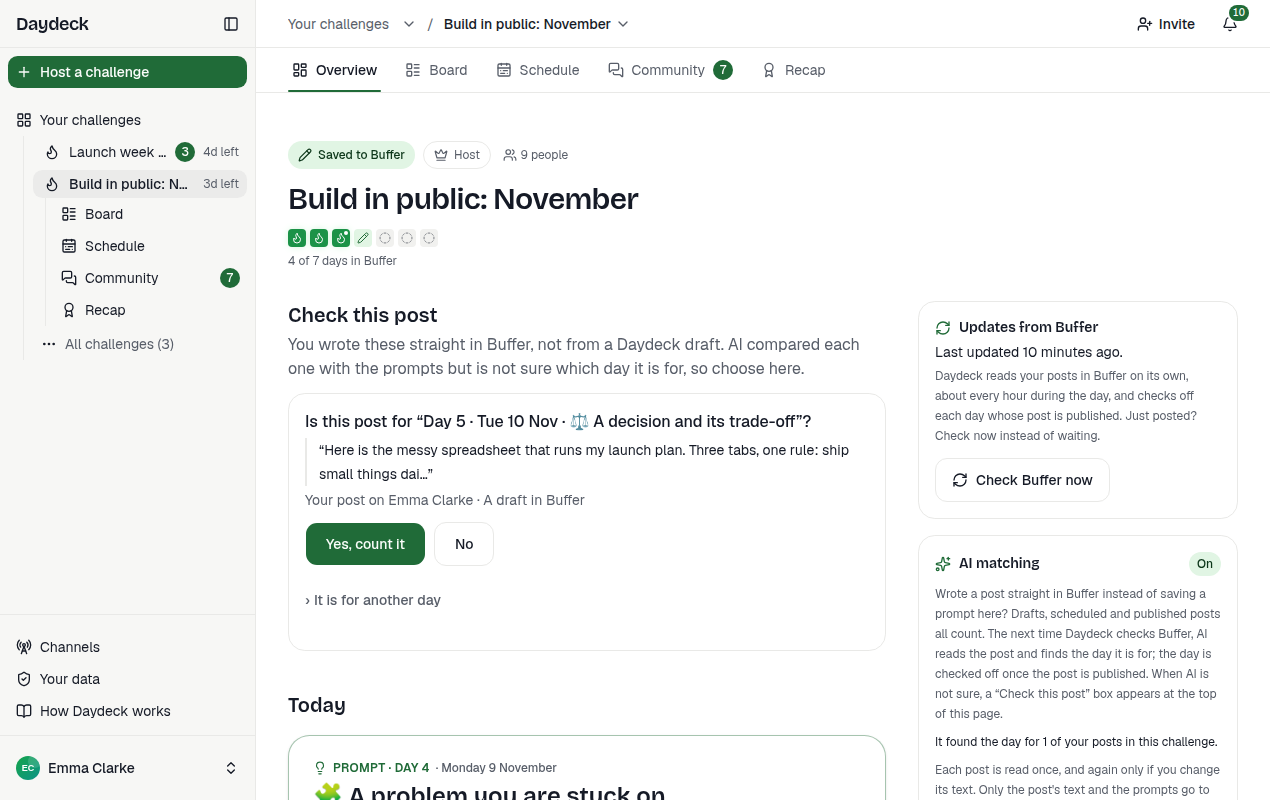
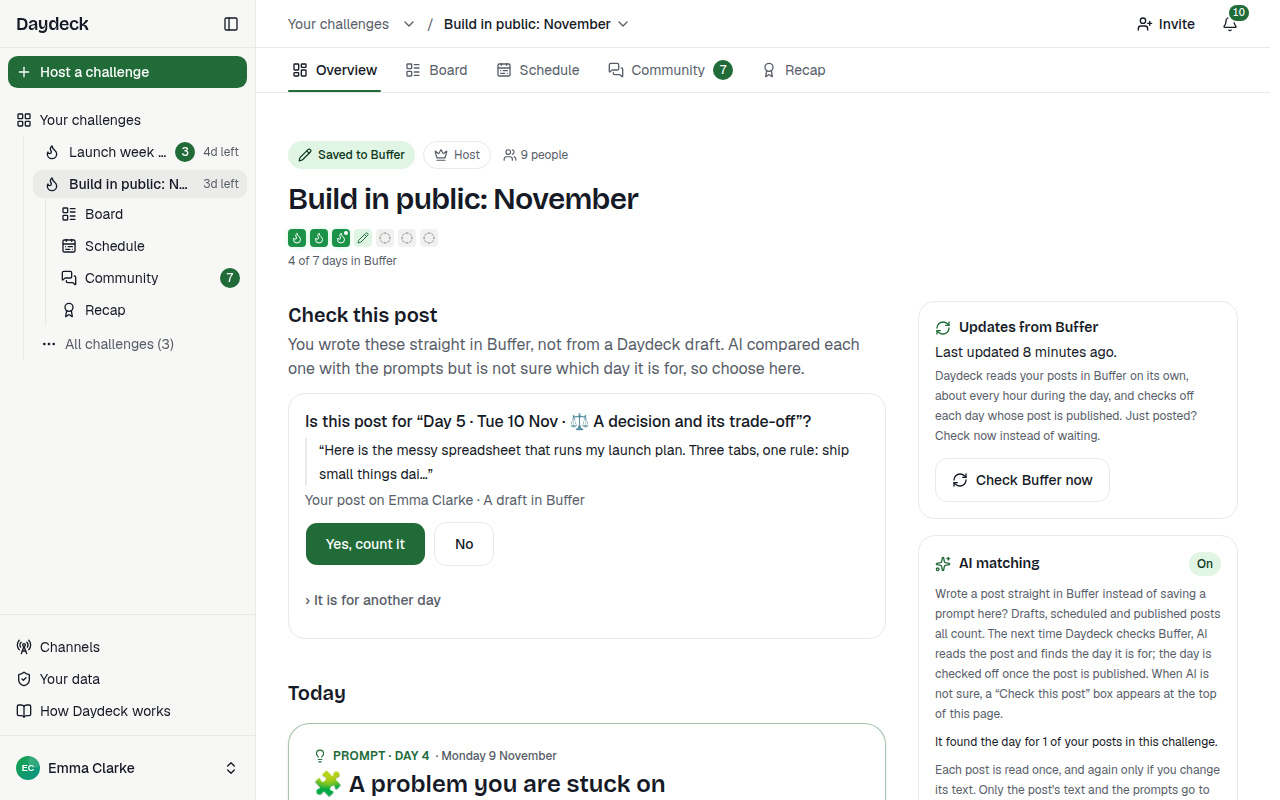
Daydeck: polish the delete dialog, checkboxes, card spacing and "just now" times

diff --git a/apps/web/features/challenges/join-form.tsx b/apps/web/features/challenges/join-form.tsx
@@ -88,27 +88,35 @@ export function JoinForm({
           <li>You can leave the challenge at any time.</li>
         </ul>
       </div>
-      <label className="flex min-h-11 cursor-pointer items-start gap-3">
-        <input
-          type="checkbox"
-          name="agreed"
-          required
-          aria-describedby={noteId}
-          className="mt-0.5 size-5 accent-primary"
-        />
-        <span>I understand what joining shares</span>
-      </label>
-      <label className="flex min-h-11 cursor-pointer items-start gap-3">
-        <input type="checkbox" name="wallOptIn" className="mt-0.5 size-5 accent-primary" />
-        <span className="flex flex-col">
-          <span>Show my name and post links on the challenge's recap page</span>
-          <span className="text-muted-foreground text-sm">
-            {listed
-              ? "Optional. This challenge is on Daydeck's homepage, so anyone can see its recap. You can change this later."
-              : "Optional. Anyone with the recap's link can see it. You can change this later."}
+      {/* The two choices as one group: same box size, and only the space a group needs. The
+          whole label is the click target, so each stays well above 24px (WCAG 2.5.8). */}
+      <div className="flex flex-col gap-4">
+        <label className="flex cursor-pointer items-start gap-3 leading-6">
+          <input
+            type="checkbox"
+            name="agreed"
+            required
+            aria-describedby={noteId}
+            className="mt-0.5 size-5 shrink-0 accent-primary"
+          />
+          <span>I understand what joining shares</span>
+        </label>
+        <label className="flex cursor-pointer items-start gap-3 leading-6">
+          <input
+            type="checkbox"
+            name="wallOptIn"
+            className="mt-0.5 size-5 shrink-0 accent-primary"
+          />
+          <span className="flex flex-col">
+            <span>Show my name and post links on the challenge's recap page</span>
+            <span className="text-muted-foreground text-sm leading-5">
+              {listed
+                ? "Optional. This challenge is on Daydeck's homepage, so anyone can see its recap. You can change this later."
+                : "Optional. Anyone with the recap's link can see it. You can change this later."}
+            </span>
           </span>
-        </span>
-      </label>
+        </label>
+      </div>
 
       <div className="flex flex-col gap-2">
         <Button type="submit" className="h-11 w-full px-5 sm:w-fit" disabled={pending}>

diff --git a/apps/web/features/community/messages.tsx b/apps/web/features/community/messages.tsx
@@ -918,9 +918,23 @@ export function ChannelView({
         <AlertDialogContent>
           <AlertDialogHeader>
             <AlertDialogTitle>Delete this message?</AlertDialogTitle>
-            <AlertDialogDescription render={<div />}>
-              <p className="line-clamp-3 wrap-anywhere">{deleting?.body}</p>
-              <p className="mt-2">It goes away for everyone. This cannot be undone.</p>
+            <AlertDialogDescription render={<div />} className="flex flex-col gap-3">
+              {/* The message itself, set apart from the warning, as the member card shows it. */}
+              {deleting ? (
+                <blockquote className="flex w-full flex-col gap-0.5 self-stretch rounded-lg border bg-card p-2.5 text-card-foreground text-sm">
+                  <span className="text-muted-foreground text-xs">
+                    {deleting.author?.name ?? "Someone"} ·{" "}
+                    {new Date(deleting.createdAt).toLocaleString(undefined, {
+                      day: "numeric",
+                      month: "short",
+                      hour: "2-digit",
+                      minute: "2-digit",
+                    })}
+                  </span>
+                  <span className="line-clamp-3 wrap-anywhere leading-5">{deleting.body}</span>
+                </blockquote>
+              ) : null}
+              <p>It goes away for everyone. This cannot be undone.</p>
             </AlertDialogDescription>
           </AlertDialogHeader>
           <AlertDialogFooter>

diff --git a/apps/web/features/settings/channels-section.tsx b/apps/web/features/settings/channels-section.tsx
@@ -3,6 +3,7 @@ import { buttonVariants } from "@daydeck/ui/components/button";
 import { cn } from "@daydeck/ui/lib/utils";
 import { CircleCheckIcon, ExternalLinkIcon, PlugZapIcon, RefreshCwIcon } from "lucide-react";
 import { BUFFER_CHANNEL_SETTINGS_URL } from "@/lib/buffer-links";
+import { relativeTime } from "@/lib/relative-time";
 import { getConnectionSummary, requireUser } from "@/server/auth/current-user";
 import { listChannels } from "@/server/buffer/channels";
 import type { ReconnectReason } from "@/server/buffer/errors";
@@ -137,13 +138,5 @@ function ReconnectNotice({ reason }: { reason: ReconnectReason | null }) {
 /** "Last updated 3 hours ago": when the channel list was last copied from Buffer. */
 function lastSyncLabel(at: number | null): string {
   if (!at) return "Not updated yet.";
-  const minutes = Math.round((Date.now() - at) / 60_000);
-  const format = new Intl.RelativeTimeFormat("en", { numeric: "auto" });
-  const ago =
-    minutes < 60
-      ? format.format(-minutes, "minute")
-      : minutes < 48 * 60
-        ? format.format(-Math.round(minutes / 60), "hour")
-        : format.format(-Math.round(minutes / 1440), "day");
-  return `Last updated ${ago}.`;
+  return `Last updated ${relativeTime(at, Date.now())}.`;
 }

diff --git a/apps/web/features/challenges/progress-panel.tsx b/apps/web/features/challenges/progress-panel.tsx
@@ -202,7 +202,12 @@ export function PostQuestion({
         </details>
       ) : null}
       <output
-        className={cn("block text-sm", state.status === "error" && "text-destructive")}
+        // Hidden while empty, so it adds no space; screen readers still hear the result.
+        className={cn(
+          "block text-sm",
+          state.status === "idle" && "sr-only",
+          state.status === "error" && "text-destructive",
+        )}
         aria-live="polite"
       >
         {state.status === "idle" ? "" : state.message}
@@ -233,7 +238,12 @@ export function OtherPost({ post, freeDays }: { post: PostSummary; freeDays: Day
         />
       )}
       <output
-        className={cn("block text-sm", state.status === "error" && "text-destructive")}
+        // Hidden while empty, so it adds no space; screen readers still hear the result.
+        className={cn(
+          "block text-sm",
+          state.status === "idle" && "sr-only",
+          state.status === "error" && "text-destructive",
+        )}
         aria-live="polite"
       >
         {state.status === "idle" ? "" : state.message}

diff --git a/apps/web/features/notifications/notifications-button.tsx b/apps/web/features/notifications/notifications-button.tsx
@@ -32,6 +32,7 @@ import {
 } from "react";
 import { notifiedPlaces, notifiedTotal, useLive } from "@/features/community/live";
 import { PLACES } from "@/features/community/places";
+import { relativeTime } from "@/lib/relative-time";
 import type { Mutable, NotificationRow, NotificationSetting } from "@/server/community/live";
 import type { Place } from "@/server/community/service";
 import { markAllReadAction, setMutedAction } from "./actions";
@@ -80,11 +81,7 @@ function placeWord(place: Place, count: number): string {
 }
 
 function ago(iso: string): string {
-  const minutes = Math.max(0, Math.round((Date.now() - Date.parse(iso)) / 60_000));
-  const format = new Intl.RelativeTimeFormat("en", { numeric: "auto", style: "short" });
-  if (minutes < 60) return format.format(-minutes, "minute");
-  if (minutes < 48 * 60) return format.format(-Math.round(minutes / 60), "hour");
-  return format.format(-Math.round(minutes / 1440), "day");
+  return relativeTime(Date.parse(iso), Date.now(), "short");
 }
 
 /**

diff --git a/apps/web/lib/relative-time.test.ts b/apps/web/lib/relative-time.test.ts
@@ -1,0 +1,20 @@
+import { describe, expect, it } from "vitest";
+import { relativeTime } from "./relative-time";
+
+const now = Date.parse("2026-11-09T20:00:00Z");
+const ago = (ms: number) => now - ms;
+
+describe("relative time", () => {
+  it("says just now under a minute, then counts", () => {
+    expect(relativeTime(ago(0), now)).toBe("just now");
+    expect(relativeTime(ago(59_000), now)).toBe("just now");
+    expect(relativeTime(ago(60_000), now)).toBe("1 minute ago");
+    expect(relativeTime(ago(5 * 60_000), now, "short")).toBe("5 min. ago");
+    expect(relativeTime(ago(3 * 3_600_000), now)).toBe("3 hours ago");
+    expect(relativeTime(ago(3 * 86_400_000), now)).toBe("3 days ago");
+  });
+
+  it("never shows the future, even with a clock a little ahead", () => {
+    expect(relativeTime(now + 30_000, now)).toBe("just now");
+  });
+});

diff --git a/apps/web/lib/relative-time.ts b/apps/web/lib/relative-time.ts
@@ -1,0 +1,16 @@
+// "How long ago", the same way everywhere: "just now" under a minute (the usual wording in apps,
+// rather than Intl's "this minute"), then minutes, hours and days ("5 minutes ago", "yesterday").
+
+/** How long ago `then` was, at `now`. `short` gives "5 min. ago", for tight spaces. */
+export function relativeTime(
+  then: Date | number,
+  now: Date | number,
+  style: "long" | "short" = "long",
+): string {
+  const minutes = Math.max(0, Math.floor((Number(now) - Number(then)) / 60_000));
+  if (minutes < 1) return "just now";
+  const format = new Intl.RelativeTimeFormat("en", { numeric: "auto", style });
+  if (minutes < 60) return format.format(-minutes, "minute");
+  if (minutes < 48 * 60) return format.format(-Math.round(minutes / 60), "hour");
+  return format.format(-Math.round(minutes / 1440), "day");
+}

diff --git a/apps/web/lib/last-checked.ts b/apps/web/lib/last-checked.ts
@@ -1,13 +1,7 @@
+import { relativeTime } from "./relative-time";
+
 /** "Last updated 5 minutes ago.": when Daydeck last read this person's Buffer posts. */
 export function lastCheckedText(at: Date | null, now: Date): string {
   if (!at) return "Not updated yet.";
-  const minutes = Math.max(0, Math.round((now.getTime() - at.getTime()) / 60_000));
-  const format = new Intl.RelativeTimeFormat("en", { numeric: "auto" });
-  const ago =
-    minutes < 60
-      ? format.format(-minutes, "minute")
-      : minutes < 48 * 60
-        ? format.format(-Math.round(minutes / 60), "hour")
-        : format.format(-Math.round(minutes / 1440), "day");
-  return `Last updated ${ago}.`;
+  return `Last updated ${relativeTime(at, now)}.`;
 }
